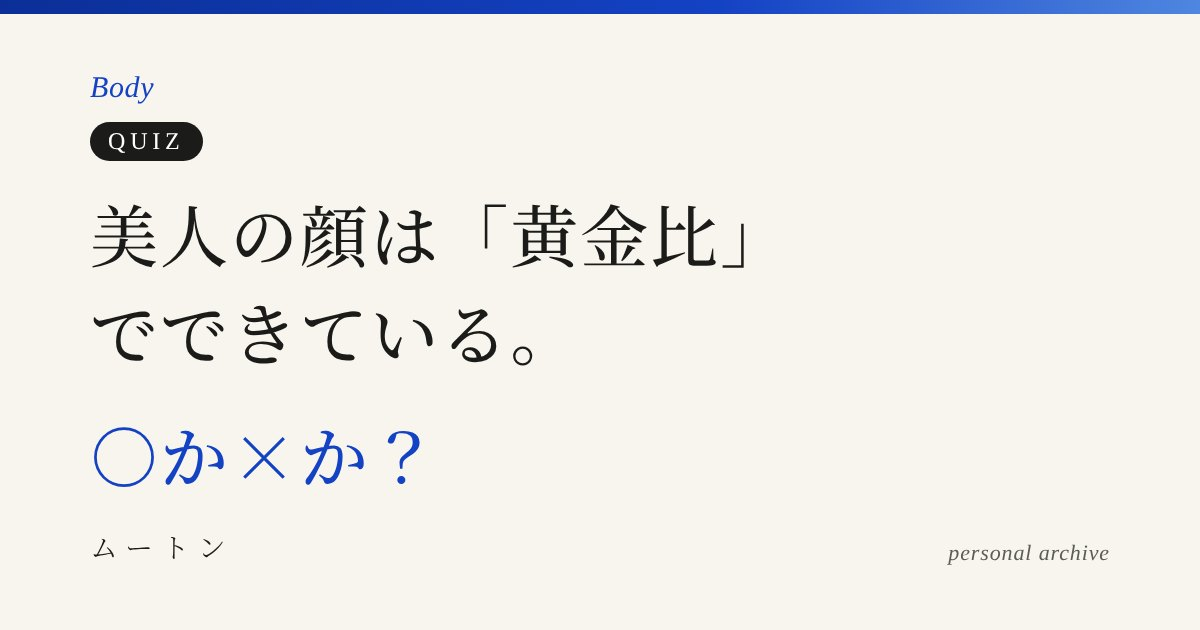
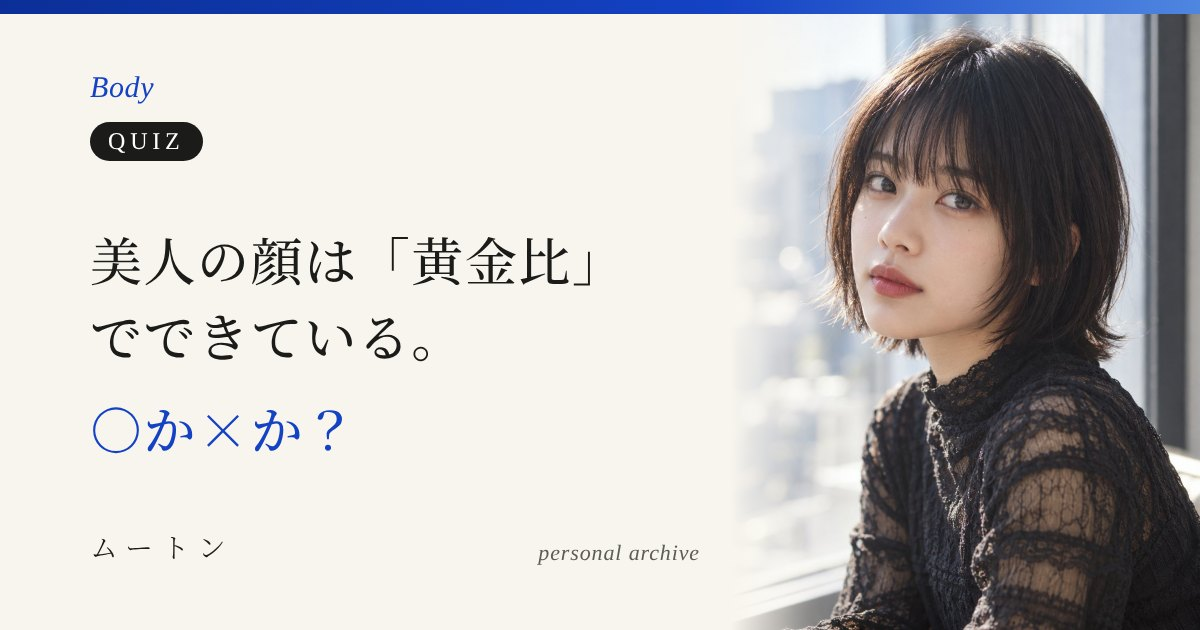
feat(og): 美人は数値で測れるのか？のシェア画像に顔写真を追加
オーナー提供の AI 生成画像を images/faces に置き、クイズ型カードの右側に入れた。

Claude-Session: https://claude.ai/code/session_01GwxfcJFW9ikryxVvdg6e1Y

diff --git a/src/articles/beauty-numbers.html b/src/articles/beauty-numbers.html
@@ -14,6 +14,7 @@ journal:
   excerpt: "最も美しい比率は黄金比ではなく「平均顔」だった。顔の魅力研究を数字で読み、客観と好みの境目を探る。"
   order: 1
 related: ["smell", "cleanliness", "first-impression-sleep"]
+face: "images/faces/beauty-numbers.jpg"
 styles: |
   :root{--ink:#20211f;--muted:#686b65;--line:rgba(32,33,31,.16);--paper:rgba(242,239,231,.92);--dark:#1f211f}
   main{width:min(980px,92vw);margin:20px auto 70px;background:var(--paper);backdrop-filter:blur(17px);border:1px solid rgba(255,255,255,.62);border-radius:14px;box-shadow:0 30px 100px rgba(10,12,10,.24);padding:clamp(36px,7vw,88px)}

diff --git a/promo/log/2026-10-14.md b/promo/log/2026-10-14.md
@@ -40,3 +40,12 @@
 - **見つけた問題**：`scripts/og/make.mjs` は他の記事の画像も作り直すため、この記事の画像以外の差分は戻した。
 - **残り・承認待ち**：X 側はリンクのプレビューをキャッシュするため、すでに貼ったリンクは古い画像のままのことがある。
 - **関連ファイル**：`src/_data/quizzes.json`、`images/og/beauty-numbers.jpg`
+
+## 「美人は数値で測れるのか？」のシェア画像に顔写真を追加
+
+- **依頼**：シェア画像に、オーナーが用意した人物写真（AI で生成した画像、実在の人物ではない）を入れたい。
+- **やったこと**：`images/faces/beauty-numbers.jpg`（940×1232に切り抜き）を追加し、記事の front matter に `face` を設定。クイズ型カードの右側に写真が入る形でシェア画像を作り直した。`images/faces/README.md` に出典を記録。
+- **判断**：README の許可範囲（無料素材かオーナー本人の写真）にない「オーナー提供の AI 生成画像」のため、出典欄にその旨を明記した。写真は商品と並べていない。
+- **確かめたこと**：npm test 成功（192ページ）。生成したシェア画像を目視で確認し、写真の下に黒い帯が出ていたため切り抜きを直した。
+- **残り・承認待ち**：X 側はリンクのプレビューをキャッシュするため、すでに貼ったリンクは古い画像のままのことがある。
+- **関連ファイル**：`images/faces/beauty-numbers.jpg`、`images/og/beauty-numbers.jpg`、`src/articles/beauty-numbers.html`、`images/faces/README.md`

diff --git a/images/faces/README.md b/images/faces/README.md
@@ -7,3 +7,4 @@
 
 | ファイル | 出典（URL） | 撮影者 | ライセンス |
 |---|---|---|---|
+| `beauty-numbers.jpg` | AI で生成した画像（オーナー提供・実在の人物ではない） | ― | オーナー提供 |
